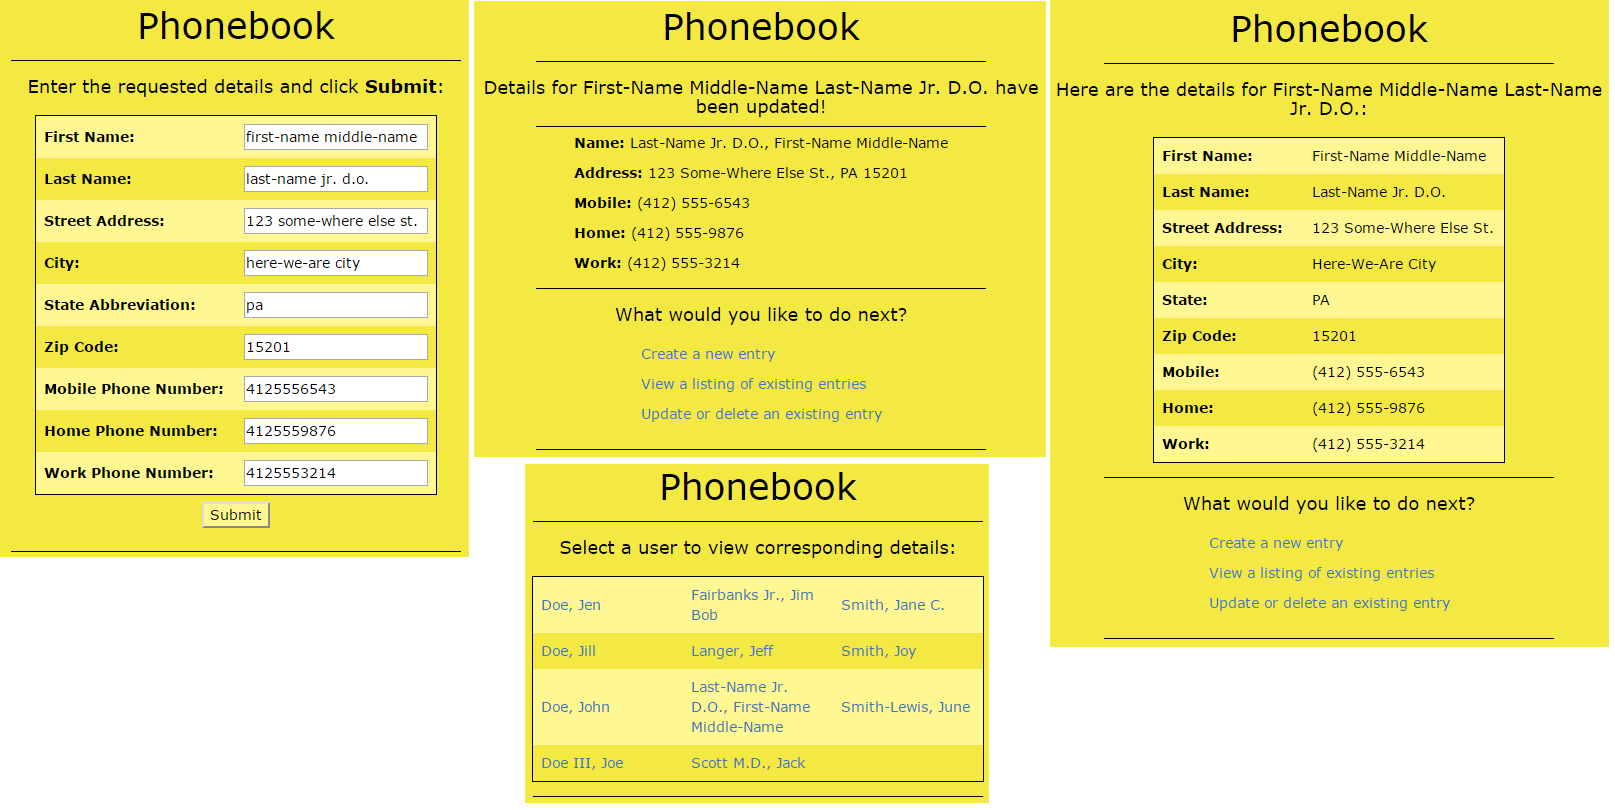
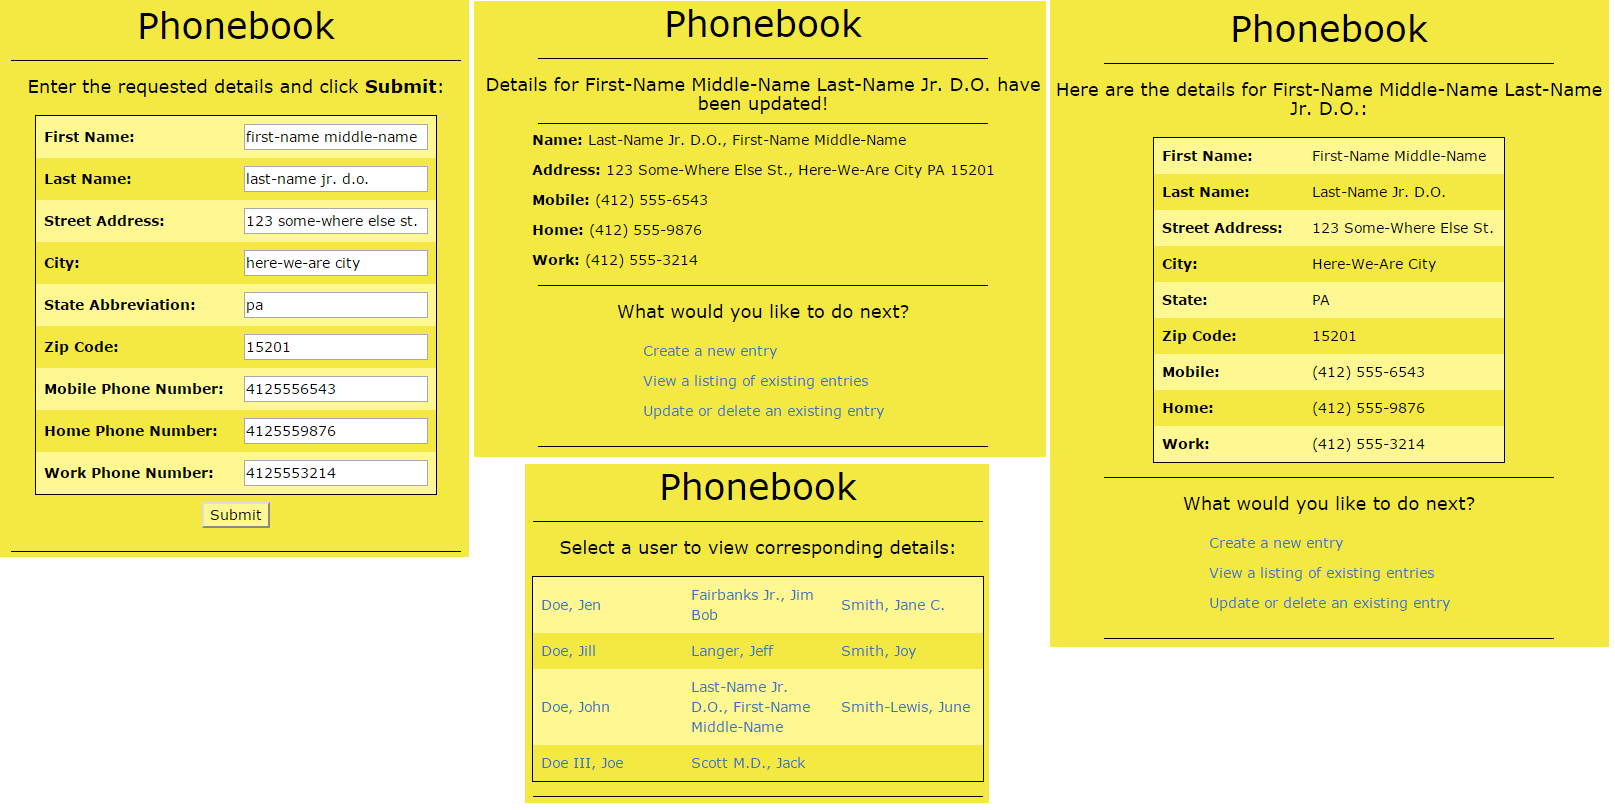
tweaked write_db and update_values to return formatted hash for post_entry view, added logic to handle duplicate entries (new entries)

diff --git a/phonebook_ops.rb b/phonebook_ops.rb
@@ -30,7 +30,7 @@ def get_entry(first_name, last_name)
                   and lname = '#{last_name}'")
     user_hash = conn.exec_prepared('q_statement')
     conn.exec("deallocate q_statement")
-    return user_hash[0]
+    user_hash.to_a.size > 0 ? (return user_hash[0]) : (return {})
   rescue PG::Error => e
     puts 'Exception occurred'
     puts e.message
@@ -69,8 +69,16 @@ def get_names()
   sorted = names.count > 3 ? rotate_names(names) : names  # rerrange names if more than 3 names
 end
 
+# Method to hold state appreviations
 def state_array
   %w(AK AL AR AZ CA CO CT DC DE FL GA HI IA ID IL IN KS KY LA MA MD ME MI MN MO MS MT NC ND NE NH NJ NM NV NY OH OK OR PA RI SC SD TN TX UT VA VT WA WI WV WY)
+end
+
+# Method to determine if entry is a duplicate or not
+def duplicate_entry?(entry_hash)
+  db_hash = get_entry(entry_hash["fname"], entry_hash["lname"])
+  difference = (entry_hash.to_a - db_hash.to_a).flatten
+  difference.size > 0 ? false : true
 end
 
 # Method to validate values prior to committing to database
@@ -78,34 +86,36 @@ def check_values(entry_hash)
   flag = 0
   feedback = ""
   detail = ""
+  flag = 1 if duplicate_entry?(entry_hash)
   entry_hash.each do |key, value|
-     flag = 1 if key == "fname" && value.length < 2
-     flag = 2 if key == "lname" && value.length < 2
-     flag = 3 if key == "addr" && value.split(" ").length < 3
-    (flag = 4; detail = key) if key =~ /fname|lname|addr/ && value.length > 50
-    (flag = 4; detail = key) if key == "city" && value.length > 25
-     flag = 5 if key == "city" && value.length < 2
-     flag = 6 if key == "zip" && value.length != 5
-    (flag = 7; detail = key) if key =~ /mobile|home|work/ && value.length != 10
-     flag = 8 if key == "state" && (!state_array.include? value.upcase)
-     flag = 9 if key =~ /fname|lname/ && value =~ /[^a-zA-Z.\- ]/
-     flag = 10 if key == "addr" && value =~ /[^0-9a-zA-z.\- ]/
-     flag = 11 if key == "city" && value =~ /[^a-zA-Z.\- ]/
-    (flag = 12; detail = key) if key =~ /zip|mobile|home|work/ && value =~ /[^0-9]/
+     flag = 2 if key == "fname" && value.length < 2
+     flag = 3 if key == "lname" && value.length < 2
+     flag = 4 if key == "addr" && value.split(" ").length < 3
+    (flag = 5; detail = key) if key =~ /fname|lname|addr/ && value.length > 50
+    (flag = 5; detail = key) if key == "city" && value.length > 25
+     flag = 6 if key == "city" && value.length < 2
+     flag = 7 if key == "zip" && value.length != 5
+    (flag = 8; detail = key) if key =~ /mobile|home|work/ && value.length != 10
+     flag = 9 if key == "state" && (!state_array.include? value.upcase)
+     flag = 10 if key =~ /fname|lname/ && value =~ /[^a-zA-Z.\- ]/
+     flag = 11 if key == "addr" && value =~ /[^0-9a-zA-z.\- ]/
+     flag = 12 if key == "city" && value =~ /[^a-zA-Z.\- ]/
+    (flag = 13; detail = key) if key =~ /zip|mobile|home|work/ && value =~ /[^0-9]/
   end
   case flag
-    when 1 then feedback = "The first name is too short - please enter at least two letters for the first name."
-    when 2 then feedback = "The last name is too short - please enter at least two letters for the last name."
-    when 3 then feedback = "Please specify a house number and a street name for the address."
-    when 4 then feedback = "The value for '#{detail}' is too long - please use a shorter value."
-    when 5 then feedback = "The city name is too short - please enter at least two letters for the city name."
-    when 6 then feedback = "Please enter five digits for the zip code."
-    when 7 then feedback = "Please enter ten digits for the #{detail} phone number."
-    when 8 then feedback = "Please use a valid two-letter abbreviation for the state name."
-    when 9 then feedback = "The name should only contain letters, hyphens or periods."
-    when 10 then feedback = "The street address should only contain numbers, letters, hyphens or periods."
-    when 11 then feedback = "The city name should only contain letters, hyphens or periods."
-    when 12 then feedback = "The value for '#{detail}' should only have numbers."
+    when 1 then feedback = "That entry already exists - please enter details for another entry."
+    when 2 then feedback = "The first name is too short - please enter at least two letters for the first name."
+    when 3 then feedback = "The last name is too short - please enter at least two letters for the last name."
+    when 4 then feedback = "Please specify a house number and a street name for the address."
+    when 5 then feedback = "The value for '#{detail}' is too long - please use a shorter value."
+    when 6 then feedback = "The city name is too short - please enter at least two letters for the city name."
+    when 7 then feedback = "Please enter five digits for the zip code."
+    when 8 then feedback = "Please enter ten digits for the #{detail} phone number."
+    when 9 then feedback = "Please use a valid two-letter abbreviation for the state name."
+    when 10 then feedback = "The name should only contain letters, hyphens or periods."
+    when 11 then feedback = "The street address should only contain numbers, letters, hyphens or periods."
+    when 12 then feedback = "The city name should only contain letters, hyphens or periods."
+    when 13 then feedback = "The value for '#{detail}' should only have numbers."
   end
   return feedback
 end
@@ -169,6 +179,9 @@ def write_db(entry_hash)
   ensure
     conn.close if conn
   end
+  formatted = {"fname" => v_fname, "lname" => v_lname, "addr" => v_addr,
+               "city" => v_city, "state" => v_state, "zip" => v_zip,
+               "mobile" => v_mobile, "home" => v_home, "work" => v_work}
 end
 
 # Method to return array of record hashes associated with specified value and column
@@ -200,6 +213,7 @@ end
 # - order is not important (the id can be anywhere in the hash)
 def update_values(entry_hash)
   id = entry_hash["id"]  # determine the id for the current record
+  formatted = {}
   begin
     conn = open_db() # open database for updating
     entry_hash.each do |column, value|  # iterate through entry_hash for each column/value pair
@@ -210,6 +224,7 @@ def update_values(entry_hash)
         conn.prepare('q_statement', query)
         rs = conn.exec_prepared('q_statement', [id, value])
         conn.exec("deallocate q_statement")
+        formatted[column] = value
       end
     end
   rescue PG::Error => e
@@ -218,6 +233,7 @@ def update_values(entry_hash)
   ensure
     conn.close if conn
   end
+  formatted
 end
 
 # Method to delete a record from the database
@@ -245,93 +261,119 @@ end
 # p get_entry("John", "Doe")
 # {"id"=>"1", "fname"=>"John", "lname"=>"Doe", "addr"=>"606 Jacobs Street", "city"=>"Pittsburgh", "state"=>"PA", "zip"=>"15220", "mobile"=>"4125550125", "home"=>"4125559816", "work"=>"4125550106"}
 
-# entry_hash = {"fname"=>"Jake", "lname"=>"Roberts", "addr"=>"328 Oakdale Drive", "city"=>"Pittsburgh", "state"=>"PA", "zip"=>"15213", "mobile"=>"4125557359", "home"=>"4125558349", "work"=>"4125556843"}
-# write_db(entry_hash)
+# p get_entry("Jon", "Doe")
+# {}
+
+# entry_hash = {"fname"=>"John", "lname"=>"Doe", "addr"=>"606 Jacobs Street", "city"=>"Pittsburgh", "state"=>"PA", "zip"=>"15220", "mobile"=>"4125550125", "home"=>"4125559816", "work"=>"4125550106"}
+# p duplicate_entry?(entry_hash)
+# true
+
+# entry_hash = {"fname"=>"Jon", "lname"=>"Doe", "addr"=>"606 Jacobs Street", "city"=>"Pittsburgh", "state"=>"PA", "zip"=>"15220", "mobile"=>"4125550125", "home"=>"4125559816", "work"=>"4125550106"}
+# p duplicate_entry?(entry_hash)
+# false
+
+# entry_hash = {"fname"=>"John", "lname"=>"Doe", "addr"=>"8606 Jacobs Street", "city"=>"Pittsburgh", "state"=>"PA", "zip"=>"15220", "mobile"=>"4125550125", "home"=>"4125559816", "work"=>"4125550106"}
+# p duplicate_entry?(entry_hash)
+# false
+
+# entry_hash = {"fname"=>"jake", "lname"=>"roberts", "addr"=>"328 oakdale drive", "city"=>"pittsburgh", "state"=>"pa", "zip"=>"15213", "mobile"=>"4125557359", "home"=>"4125558349", "work"=>"4125556843"}
+# p write_db(entry_hash)
+# {"fname"=>"Jake", "lname"=>"Roberts", "addr"=>"328 Oakdale Drive", "city"=>"Pittsburgh", "state"=>"PA", "zip"=>"15213", "mobile"=>"4125557359", "home"=>"4125558349", "work"=>"4125556843"}
 
 # p get_names()
-# ["Doe, Jen", "Fairbanks, Jim Bob", "Smith, Joy", "Doe, Jill", "Langer, Jeff", "Smith, June", "Doe, Joe", "Scott M.D., Jack", "", "Doe, John", "Smith, Jane", ""]
+# ["Doe, Jen", "Fairbanks Jr., Jim Bob", "Smith, Jane C.", "Doe, Jill", "Langer, Jeff", "Smith, Joy", "Doe, John", "Roberts, Jake", "Smith-Lewis, June", "Doe III, Joe", "Scott M.D., Jack", ""]
 
-# hash_1 = {"id"=>"11", "fname"=>"Jake", "lname"=>"Robertson", "addr"=>"328 Oakdale Drive", "city"=>"Pittsburgh", "state"=>"PA", "zip"=>"15213", "mobile"=>"4125557359", "home"=>"4125558349", "work"=>"4125556843"}
-# hash_1 = {"fname"=>"Jacob", "lname"=>"Robert", "addr"=>"146 Oakdale Drive", "city"=>"Pittsburgh", "state"=>"PA", "zip"=>"15213", "mobile"=>"4125558888", "home"=>"4125558349", "work"=>"4125556843", "id"=>"11"}
-# hash_1 = {"fname"=>"Jake", "lname"=>"Roberts", "id"=>"11", "addr"=>"328 Oakdale Drive", "city"=>"Pittsburgh", "state"=>"PA", "zip"=>"15213", "mobile"=>"4125557359", "home"=>"4125558349", "work"=>"4125556843"}
+# hash_1 = {"id"=>"11", "fname"=>"jake l.", "lname"=>"robertson", "addr"=>"328 oak-dale dr.", "city"=>"pittsburgh", "state"=>"pa", "zip"=>"15213", "mobile"=>"4125557359", "home"=>"4125558349", "work"=>"4125556843"}
+# p update_values(hash_1)
+# {"fname"=>"Jake L.", "lname"=>"Robertson", "addr"=>"328 Oak-Dale Dr.", "city"=>"Pittsburgh", "state"=>"PA", "zip"=>"15213", "mobile"=>"4125557359", "home"=>"4125558349", "work"=>"4125556843"}
 
-# update_values(hash_1)
+# hash_1 = {"fname"=>"jacob", "lname"=>"robert", "addr"=>"146 oakdale drive", "city"=>"pittsburgh", "state"=>"pa", "zip"=>"15213", "mobile"=>"4125558888", "home"=>"4125558349", "work"=>"4125556843", "id"=>"11"}
+# p update_values(hash_1)
+# {"fname"=>"Jacob", "lname"=>"Robert", "addr"=>"146 Oakdale Drive", "city"=>"Pittsburgh", "state"=>"PA", "zip"=>"15213", "mobile"=>"4125558888", "home"=>"4125558349", "work"=>"4125556843"}
 
-# hash_1 = {"fname"=>"larry", "lname"=>"something", "addr"=>"123 Lane Street", "city"=>"Asdf", "state"=>"PA", "zip"=>"12325", "mobile"=>"6549876540", "home"=>"6549873210", "work"=>"6543216548", "id"=>"15"}
-# hash_1 = {"fname"=>"lou", "lname"=>"something", "addr"=>"123 lane street", "city"=>"asdf", "state"=>"pa", "zip"=>"12325", "mobile"=>"6549876540", "home"=>"6549873210", "work"=>"6543216548", "id"=>"15"}
+# hash_1 = {"fname"=>"jake", "lname"=>"roberts jr. m.d.", "id"=>"11", "addr"=>"328 oak dale drive", "city"=>"pittsburgh", "state"=>"pa", "zip"=>"15213", "mobile"=>"4125557359", "home"=>"4125558349", "work"=>"4125556843"}
+# p update_values(hash_1)
+# {"fname"=>"Jake", "lname"=>"Roberts Jr. M.D.", "addr"=>"328 Oak Dale Drive", "city"=>"Pittsburgh", "state"=>"PA", "zip"=>"15213", "mobile"=>"4125557359", "home"=>"4125558349", "work"=>"4125556843"}
 
-# update_values(hash_1)
+# New entry, no issues
+# hash_2 = {"fname"=>"New", "lname"=>"Entry", "addr"=>"1 A Street", "city"=>"Pittsburgh", "state"=>"PA", "zip"=>"15220", "mobile"=>"4125551234", "home"=>"4125552345", "work"=>"4125553456"}
+# p check_values(hash_2)
+# ""
+
+# Duplicate entry
+# hash_3 = {"fname"=>"John", "lname"=>"Doe", "addr"=>"606 Jacobs Street", "city"=>"Pittsburgh", "state"=>"PA", "zip"=>"15220", "mobile"=>"4125550125", "home"=>"4125559816", "work"=>"4125550106"}
+# p check_values(hash_3)
+# "That entry already exists - please enter details for another entry."
 
 # First name too short (1)
-# hash_2 = {"id"=>"11", "fname"=>"J", "lname"=>"Robertson", "addr"=>"328 Oakdale Drive", "city"=>"Pittsburgh", "state"=>"PA", "zip"=>"15213", "mobile"=>"4125557359", "home"=>"4125558349", "work"=>"4125556843"}
+# hash_4 = {"id"=>"11", "fname"=>"J", "lname"=>"Robertson", "addr"=>"328 Oakdale Drive", "city"=>"Pittsburgh", "state"=>"PA", "zip"=>"15213", "mobile"=>"4125557359", "home"=>"4125558349", "work"=>"4125556843"}
+# p check_values(hash_4)
 # "The name is too short - please enter at least two letters for the name."
 
 # First name too long (50+)
-# hash_3 = {"id"=>"11", "fname"=>"Jakeasdfasdfoiuyasdfoiuyasdfiouyasdfoiuyasdfiouyasdfoiuyasdfoiuyasdfoiuy", "lname"=>"Robertson", "addr"=>"328 Oakdale Drive", "city"=>"Pittsburgh", "state"=>"PA", "zip"=>"15213", "mobile"=>"4125557359", "home"=>"4125558349", "work"=>"4125556843"}
+# hash_5 = {"id"=>"11", "fname"=>"Jakeasdfasdfoiuyasdfoiuyasdfiouyasdfoiuyasdfiouyasdfoiuyasdfoiuyasdfoiuy", "lname"=>"Robertson", "addr"=>"328 Oakdale Drive", "city"=>"Pittsburgh", "state"=>"PA", "zip"=>"15213", "mobile"=>"4125557359", "home"=>"4125558349", "work"=>"4125556843"}
+# p check_values(hash_5)
 # "The value for 'fname' is too long - please try again with a shorter value."
 
 # Last name too short (1)
-# hash_4 = {"id"=>"11", "fname"=>"Jake", "lname"=>"R", "addr"=>"328 Oakdale Drive", "city"=>"Pittsburgh", "state"=>"PA", "zip"=>"15213", "mobile"=>"4125557359", "home"=>"4125558349", "work"=>"4125556843"}
+# hash_6 = {"id"=>"11", "fname"=>"Jake", "lname"=>"R", "addr"=>"328 Oakdale Drive", "city"=>"Pittsburgh", "state"=>"PA", "zip"=>"15213", "mobile"=>"4125557359", "home"=>"4125558349", "work"=>"4125556843"}
+# p check_values(hash_6)
 # "The name is too short - please enter at least two letters for the name."
 
 # Last name too long (50+)
-# hash_5 = {"id"=>"11", "fname"=>"Jake", "lname"=>"Robertsonasdfoiuyasdfoiuyasdfoiuyasdfoiuyasdfoiuyasdfoiasdfpoiu", "addr"=>"328 Oakdale Drive", "city"=>"Pittsburgh", "state"=>"PA", "zip"=>"15213", "mobile"=>"4125557359", "home"=>"4125558349", "work"=>"4125556843"}
+# hash_7 = {"id"=>"11", "fname"=>"Jake", "lname"=>"Robertsonasdfoiuyasdfoiuyasdfoiuyasdfoiuyasdfoiuyasdfoiasdfpoiu", "addr"=>"328 Oakdale Drive", "city"=>"Pittsburgh", "state"=>"PA", "zip"=>"15213", "mobile"=>"4125557359", "home"=>"4125558349", "work"=>"4125556843"}
+# p check_values(hash_7)
 # "The value for 'lname' is too long - please try again with a shorter value."
 
 # Address too short (2 words)
-# hash_6 = {"id"=>"11", "fname"=>"Jake", "lname"=>"Robertson", "addr"=>"328 Oakdale", "city"=>"Pittsburgh", "state"=>"PA", "zip"=>"15213", "mobile"=>"4125557359", "home"=>"4125558349", "work"=>"4125556843"}
+# hash_8 = {"id"=>"11", "fname"=>"Jake", "lname"=>"Robertson", "addr"=>"328 Oakdale", "city"=>"Pittsburgh", "state"=>"PA", "zip"=>"15213", "mobile"=>"4125557359", "home"=>"4125558349", "work"=>"4125556843"}
+# p check_values(hash_8)
 # "Please specify a house number and a street name for the address."
 
 # Address too long (50+)
-# hash_7 = {"id"=>"11", "fname"=>"Jake", "lname"=>"Robertson", "addr"=>"328 Oakdale Driveasdfoiuyasdfoiuyasdfoiuyasdfoiuyasdfoiuyasdfoiuyasdfoiuy", "city"=>"Pittsburgh", "state"=>"PA", "zip"=>"15213", "mobile"=>"4125557359", "home"=>"4125558349", "work"=>"4125556843"}
+# hash_9 = {"id"=>"11", "fname"=>"Jake", "lname"=>"Robertson", "addr"=>"328 Oakdale Driveasdfoiuyasdfoiuyasdfoiuyasdfoiuyasdfoiuyasdfoiuyasdfoiuy", "city"=>"Pittsburgh", "state"=>"PA", "zip"=>"15213", "mobile"=>"4125557359", "home"=>"4125558349", "work"=>"4125556843"}
+# p check_values(hash_9)
 # "The value for 'addr' is too long - please try again with a shorter value."
 
 # City too long (25+)
-# hash_8 = {"id"=>"11", "fname"=>"Jake", "lname"=>"Robertson", "addr"=>"328 Oakdale Drive", "city"=>"Pittsburghasdfoiuyasdfoiuyasdfoiuyasdfoiuyasdfoiuyasdfoiuyasdfoiuyasdfoiuy", "state"=>"PA", "zip"=>"15213", "mobile"=>"4125557359", "home"=>"4125558349", "work"=>"4125556843"}
+# hash_10 = {"id"=>"11", "fname"=>"Jake", "lname"=>"Robertson", "addr"=>"328 Oakdale Drive", "city"=>"Pittsburghasdfoiuyasdfoiuyasdfoiuyasdfoiuyasdfoiuyasdfoiuyasdfoiuyasdfoiuy", "state"=>"PA", "zip"=>"15213", "mobile"=>"4125557359", "home"=>"4125558349", "work"=>"4125556843"}
+# p check_values(hash_10)
 # "The value for 'city' is too long - please try again with a shorter value."
 
 # State too long (2+)
-# hash_9 = {"id"=>"11", "fname"=>"Jake", "lname"=>"Robertson", "addr"=>"328 Oakdale Drive", "city"=>"Pittsburgh", "state"=>"Pennsylvania", "zip"=>"15213", "mobile"=>"4125557359", "home"=>"4125558349", "work"=>"4125556843"}
+# hash_11 = {"id"=>"11", "fname"=>"Jake", "lname"=>"Robertson", "addr"=>"328 Oakdale Drive", "city"=>"Pittsburgh", "state"=>"Pennsylvania", "zip"=>"15213", "mobile"=>"4125557359", "home"=>"4125558349", "work"=>"4125556843"}
+# p check_values(hash_11)
 # "Please use the two-letter abbreviation for the state name."
 
 # Zip too short (4)
-# hash_10 = {"id"=>"11", "fname"=>"Jake", "lname"=>"Robertson", "addr"=>"328 Oakdale Drive", "city"=>"Pittsburgh", "state"=>"PA", "zip"=>"1521", "mobile"=>"4125557359", "home"=>"4125558349", "work"=>"4125556843"}
+# hash_12 = {"id"=>"11", "fname"=>"Jake", "lname"=>"Robertson", "addr"=>"328 Oakdale Drive", "city"=>"Pittsburgh", "state"=>"PA", "zip"=>"1521", "mobile"=>"4125557359", "home"=>"4125558349", "work"=>"4125556843"}
+# p check_values(hash_12)
 # "Please enter five digits for the zip code."
 
 # Zip too long (5+)
-# hash_11 = {"id"=>"11", "fname"=>"Jake", "lname"=>"Robertson", "addr"=>"328 Oakdale Drive", "city"=>"Pittsburgh", "state"=>"PA", "zip"=>"152136", "mobile"=>"4125557359", "home"=>"4125558349", "work"=>"4125556843"}
+# hash_13 = {"id"=>"11", "fname"=>"Jake", "lname"=>"Robertson", "addr"=>"328 Oakdale Drive", "city"=>"Pittsburgh", "state"=>"PA", "zip"=>"152136", "mobile"=>"4125557359", "home"=>"4125558349", "work"=>"4125556843"}
+# p check_values(hash_13)
 # "Please enter five digits for the zip code."
 
 # Mobile too short (9)
-# hash_12 = {"id"=>"11", "fname"=>"Jake", "lname"=>"Robertson", "addr"=>"328 Oakdale Drive", "city"=>"Pittsburgh", "state"=>"PA", "zip"=>"15213", "mobile"=>"412555590", "home"=>"4125558349", "work"=>"4125556843"}
+# hash_14 = {"id"=>"11", "fname"=>"Jake", "lname"=>"Robertson", "addr"=>"328 Oakdale Drive", "city"=>"Pittsburgh", "state"=>"PA", "zip"=>"15213", "mobile"=>"412555590", "home"=>"4125558349", "work"=>"4125556843"}
+# p check_values(hash_14)
 # "Please enter ten digits for the mobile phone number."
 
 # Work too long (10+)
-# hash_13 = {"id"=>"11", "fname"=>"Jake", "lname"=>"Robertson", "addr"=>"328 Oakdale Drive", "city"=>"Pittsburgh", "state"=>"PA", "zip"=>"15213", "mobile"=>"4125557359", "home"=>"4125558349", "work"=>"41255568435"}
+# hash_15 = {"id"=>"11", "fname"=>"Jake", "lname"=>"Robertson", "addr"=>"328 Oakdale Drive", "city"=>"Pittsburgh", "state"=>"PA", "zip"=>"15213", "mobile"=>"4125557359", "home"=>"4125558349", "work"=>"41255568435"}
+# p check_values(hash_15)
 # "Please enter ten digits for the mobile phone number."
 
 # Non-letters in first name
-# hash_14 = {"id"=>"11", "fname"=>"Jake2", "lname"=>"Robertson", "addr"=>"328 Oakdale Drive", "city"=>"Pittsburgh", "state"=>"PA", "zip"=>"15213", "mobile"=>"4125557359", "home"=>"4125558349", "work"=>"4125556843"}
+# hash_16 = {"id"=>"11", "fname"=>"Jake2", "lname"=>"Robertson", "addr"=>"328 Oakdale Drive", "city"=>"Pittsburgh", "state"=>"PA", "zip"=>"15213", "mobile"=>"4125557359", "home"=>"4125558349", "work"=>"4125556843"}
+# p check_values(hash_16)
 # "Your name should only contain letters - please try again."
 
 # Non-numbers in mobile
-# hash_15 = {"id"=>"11", "fname"=>"Jake", "lname"=>"Robertson", "addr"=>"328 Oakdale Drive", "city"=>"Pittsburgh", "state"=>"PA", "zip"=>"15213", "mobile"=>"412-555-7359", "home"=>"4125558349", "work"=>"4125556843"}
+# hash_17 = {"id"=>"11", "fname"=>"Jake", "lname"=>"Robertson", "addr"=>"328 Oakdale Drive", "city"=>"Pittsburgh", "state"=>"PA", "zip"=>"15213", "mobile"=>"412-555-7359", "home"=>"4125558349", "work"=>"4125556843"}
+# p check_values(hash_17)
 # "The value for 'mobile' should only have numbers - please try again."
-
-# p check_values(hash_2)
-# p check_values(hash_3)
-# p check_values(hash_4)
-# p check_values(hash_5)
-# p check_values(hash_6)
-# p check_values(hash_7)
-# p check_values(hash_8)
-# p check_values(hash_9)
-# p check_values(hash_10)
-# p check_values(hash_11)
-# p check_values(hash_12)
-# p check_values(hash_13)
-# p check_values(hash_14)
-# p check_values(hash_15)
 
 # p capitalize_initials("m.b.a.")  # M.B.A.
 

diff --git a/app.rb b/app.rb
@@ -18,10 +18,7 @@ class PhonebookApp < Sinatra::Base
     raw_hash = params[:entry]  # assign the entry hash to the entry_hash variable
     feedback = check_values(raw_hash)  # data validation
     if feedback == ""  # if there's no field validation feedback, use the post_entry view
-      write_db(raw_hash)  # if not, add entry info to db
-      fname = capitalize_items(raw_hash["fname"])
-      lname = capitalize_items(raw_hash["lname"])
-      entry_hash = get_entry(fname, lname)
+      entry_hash = write_db(raw_hash)  # if not, add entry info to db
       erb :post_entry, locals: {entry_hash: entry_hash}
     else
       # otherwise reload the get_entry view with feedback and user-specified values so they can correct and resubmit
@@ -69,10 +66,7 @@ class PhonebookApp < Sinatra::Base
     raw_hash = params[:entry]
     feedback = check_values(raw_hash)  # data validation
     if feedback == ""  # if there's no field validation feedback, use the post_entry view
-      update_values(raw_hash)
-      fname = capitalize_items(raw_hash["fname"])
-      lname = capitalize_items(raw_hash["lname"])
-      entry_hash = get_entry(fname, lname)
+      entry_hash = update_values(raw_hash)
       erb :post_entry, locals: {entry_hash: entry_hash, feedback: feedback}
     else
       # otherwise reload the get_info view with feedback and user-specified values so they can correct and resubmit
